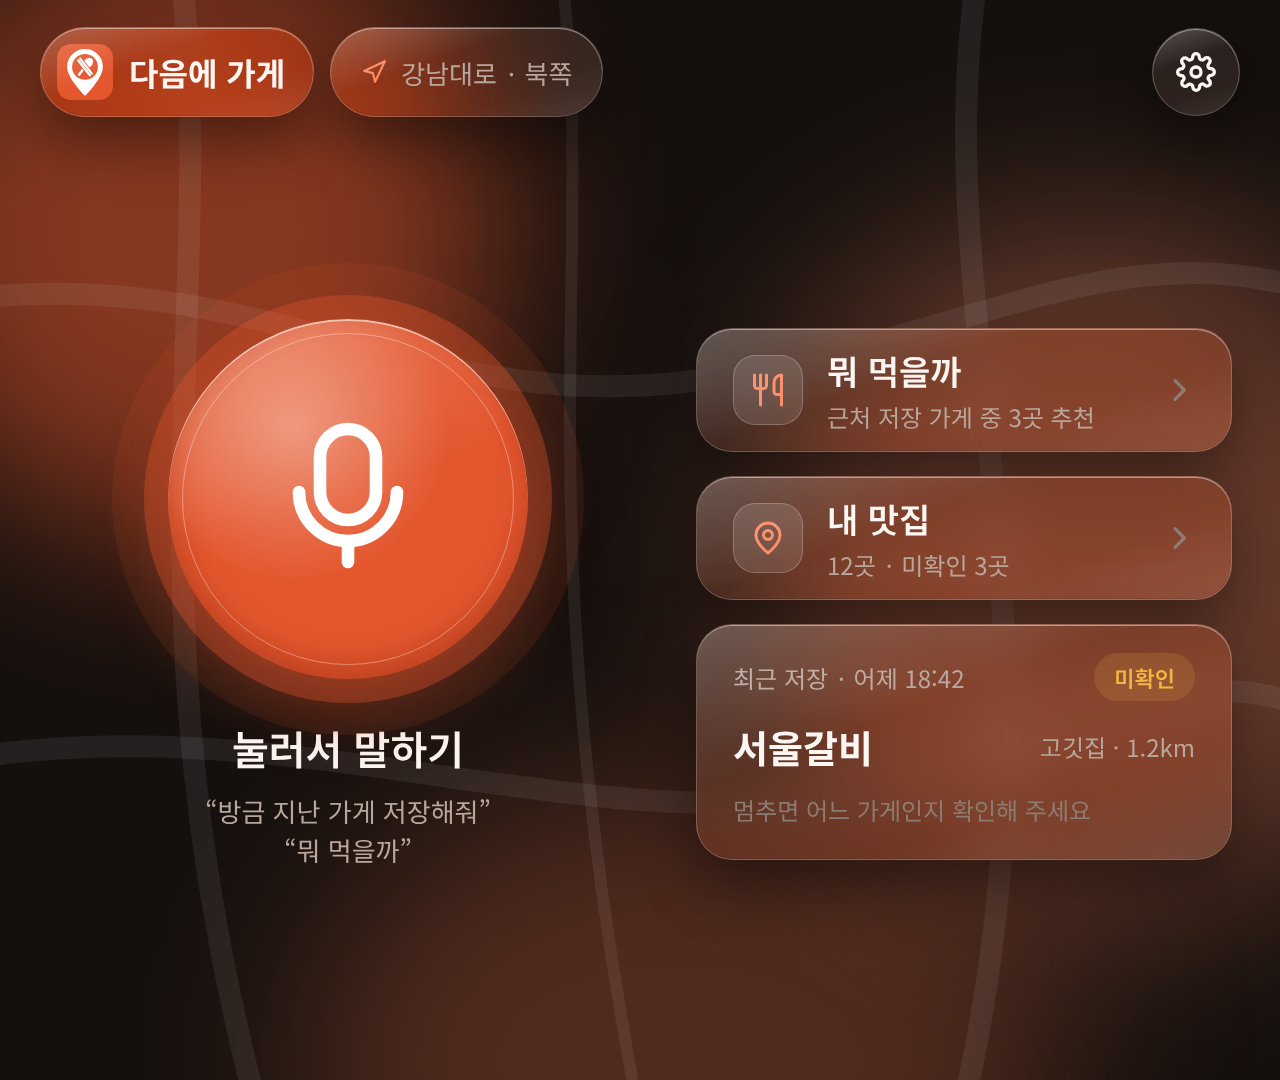
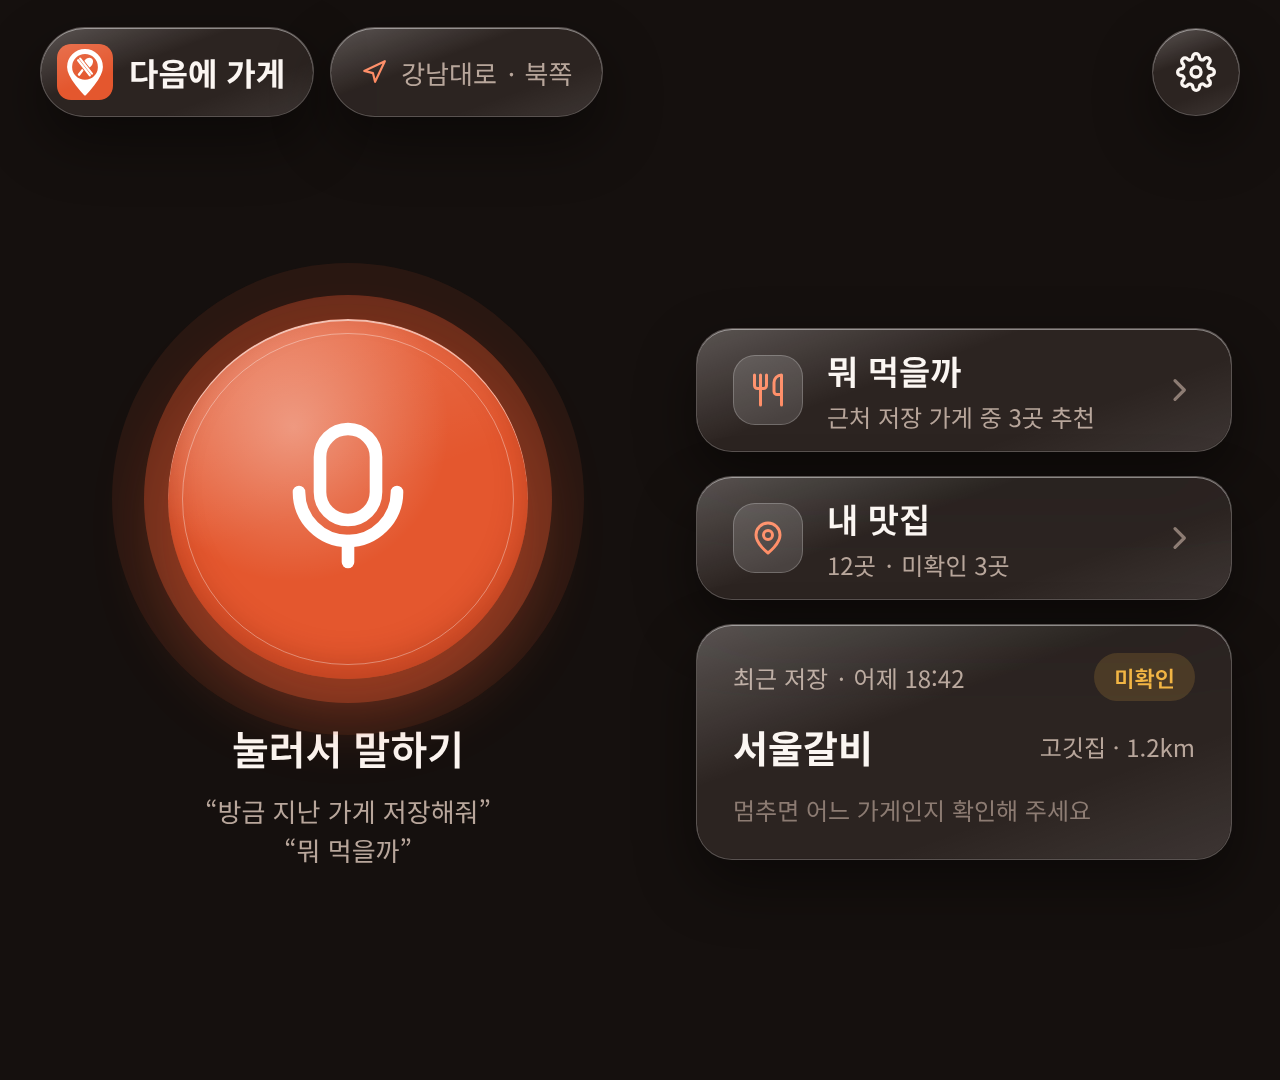
홈 글라스 시안: 배경 그림 제거, 단색 배경

diff --git a/docs/design/home_glass/S-01_홈_글라스_라이트.html b/docs/design/home_glass/S-01_홈_글라스_라이트.html
@@ -10,7 +10,7 @@ body{margin:0;background:#F6EFEA}
 .blob{position:absolute;border-radius:50%;filter:blur(90px)}
 .roads{position:absolute;inset:0}
 /* 유리 */
-.glass{position:relative;background:rgba(255,255,255,0.55);-webkit-backdrop-filter:blur(28px) saturate(170%);backdrop-filter:blur(28px) saturate(170%);border:1px solid rgba(255,255,255,0.9);box-shadow:inset 0 1px 0 rgba(255,255,255,0.95),inset 0 -1px 0 rgba(0,0,0,0.08),0 24px 60px rgba(120,60,40,0.18)}
+.glass{position:relative;background:rgba(255,255,255,0.78);-webkit-backdrop-filter:blur(28px) saturate(170%);backdrop-filter:blur(28px) saturate(170%);border:1px solid rgba(255,255,255,0.9);box-shadow:inset 0 1px 0 rgba(255,255,255,0.95),inset 0 -1px 0 rgba(0,0,0,0.08),0 24px 60px rgba(120,60,40,0.18)}
 .glass::before{content:"";position:absolute;inset:0;border-radius:inherit;pointer-events:none;background:linear-gradient(160deg,rgba(255,255,255,0.22) 0%,rgba(255,255,255,0) 38%,rgba(255,255,255,0) 70%,rgba(255,255,255,0.08) 100%)}
 .pill{border-radius:999px}
 .card{border-radius:36px}
@@ -30,7 +30,7 @@ main{position:absolute;left:0;right:0;top:140px;bottom:0;display:grid;grid-templ
 .hint p{margin:14px 0 0;font-size:26px;line-height:1.5;color:#6E5B53;text-align:center}
 .side{display:flex;flex-direction:column;justify-content:center;gap:24px;min-width:0}
 .row{height:124px;padding:0 36px;display:flex;align-items:center;gap:24px;color:#1F1512;text-decoration:none;box-sizing:border-box}
-.row .ib{width:68px;height:68px;border-radius:22px;background:rgba(255,255,255,0.7);display:flex;align-items:center;justify-content:center;flex:none;border:1px solid rgba(255,255,255,0.9)}
+.row .ib{width:68px;height:68px;border-radius:22px;background:rgba(255,255,255,0.95);display:flex;align-items:center;justify-content:center;flex:none;border:1px solid rgba(255,255,255,0.9)}
 .row .tx{flex:1;min-width:0;display:flex;flex-direction:column;gap:4px}
 .row .t{font-size:34px;font-weight:600}
 .row .s{font-size:24px;color:#6E5B53}
@@ -43,19 +43,6 @@ main{position:absolute;left:0;right:0;top:140px;bottom:0;display:grid;grid-templ
 .recent .note{font-size:24px;color:#9A867C}
 </style></head><body>
 <div class="root">
-  <div class="bgl" aria-hidden="true">
-    <div class="blob" style="left:-120px;top:-80px;width:620px;height:620px;background:rgba(228,87,46,0.35)"></div>
-    <div class="blob" style="right:-160px;top:220px;width:700px;height:700px;background:rgba(255,170,130,0.45)"></div>
-    <div class="blob" style="left:300px;bottom:-260px;width:760px;height:560px;background:rgba(255,220,200,0.9)"></div>
-    <svg class="roads" viewBox="0 0 1280 1080" fill="none" stroke="rgba(120,60,40,0.10)" stroke-width="22" stroke-linecap="round">
-      <path d="M-40 300 C 260 260, 420 420, 700 380 S 1120 220, 1340 300"/>
-      <path d="M180 -40 C 220 300, 120 600, 260 1120"/>
-      <path d="M-40 760 C 300 700, 620 860, 900 780 S 1200 660, 1340 720"/>
-      <path d="M980 -40 C 920 300, 1080 620, 960 1120"/>
-      <path d="M560 -40 C 600 260, 520 500, 640 1120" stroke-width="12"/>
-    </svg>
-  </div>
-
   <header class="top">
     <div class="glass pill brand"><svg xmlns="http://www.w3.org/2000/svg" width="56" height="56" viewBox="0 0 100 100"><rect width="100" height="100" rx="22" fill="#E4572E"/><path d="M50 90C50 90 20 60 20 41a30 30 0 1 1 60 0C80 60 50 90 50 90Z" fill="#FFFFFF" stroke="#FFFFFF" stroke-width="4" stroke-linejoin="round"/><circle cx="50" cy="41" r="23" fill="#E4572E"/><g transform="translate(50 41) scale(0.62)"><path transform="rotate(38)" d="M0 -31C8.5 -31 12.5 -22 12.5 -13C12.5 -6.5 9.5 -2 6 0C4.4 0.9 3.3 1.8 3.2 3.4L3.8 27.5A3.8 3.8 0 0 1 -3.8 27.5L-3.2 3.4C-3.3 1.8 -4.4 0.9 -6 0C-9.5 -2 -12.5 -6.5 -12.5 -13C-12.5 -22 -8.5 -31 0 -31Z" fill="#FFFFFF"/><g transform="rotate(-38)" fill="none" stroke-linecap="round"><path d="M-3.75 -27.5v55M3.75 -27.5v55" stroke="#E4572E" stroke-width="11.25"/><path d="M-3.75 -27.5v55M3.75 -27.5v55" stroke="#FFFFFF" stroke-width="6.25"/></g></g></svg>
 <span>다음에 가게</span></div>

diff --git a/docs/design/home_glass/S-01_홈_글라스.html b/docs/design/home_glass/S-01_홈_글라스.html
@@ -10,7 +10,7 @@ body{margin:0;background:#15100E}
 .blob{position:absolute;border-radius:50%;filter:blur(90px)}
 .roads{position:absolute;inset:0}
 /* 유리 */
-.glass{position:relative;background:rgba(255,255,255,0.08);-webkit-backdrop-filter:blur(28px) saturate(170%);backdrop-filter:blur(28px) saturate(170%);border:1px solid rgba(255,255,255,0.22);box-shadow:inset 0 1px 0 rgba(255,255,255,0.45),inset 0 -1px 0 rgba(0,0,0,0.08),0 24px 60px rgba(0,0,0,0.45)}
+.glass{position:relative;background:rgba(255,255,255,0.09);-webkit-backdrop-filter:blur(28px) saturate(170%);backdrop-filter:blur(28px) saturate(170%);border:1px solid rgba(255,255,255,0.22);box-shadow:inset 0 1px 0 rgba(255,255,255,0.45),inset 0 -1px 0 rgba(0,0,0,0.08),0 24px 60px rgba(0,0,0,0.45)}
 .glass::before{content:"";position:absolute;inset:0;border-radius:inherit;pointer-events:none;background:linear-gradient(160deg,rgba(255,255,255,0.22) 0%,rgba(255,255,255,0) 38%,rgba(255,255,255,0) 70%,rgba(255,255,255,0.08) 100%)}
 .pill{border-radius:999px}
 .card{border-radius:36px}
@@ -30,7 +30,7 @@ main{position:absolute;left:0;right:0;top:140px;bottom:0;display:grid;grid-templ
 .hint p{margin:14px 0 0;font-size:26px;line-height:1.5;color:#B8A69B;text-align:center}
 .side{display:flex;flex-direction:column;justify-content:center;gap:24px;min-width:0}
 .row{height:124px;padding:0 36px;display:flex;align-items:center;gap:24px;color:#FBF6F2;text-decoration:none;box-sizing:border-box}
-.row .ib{width:68px;height:68px;border-radius:22px;background:rgba(255,255,255,0.12);display:flex;align-items:center;justify-content:center;flex:none;border:1px solid rgba(255,255,255,0.22)}
+.row .ib{width:68px;height:68px;border-radius:22px;background:rgba(255,255,255,0.14);display:flex;align-items:center;justify-content:center;flex:none;border:1px solid rgba(255,255,255,0.22)}
 .row .tx{flex:1;min-width:0;display:flex;flex-direction:column;gap:4px}
 .row .t{font-size:34px;font-weight:600}
 .row .s{font-size:24px;color:#B8A69B}
@@ -43,19 +43,6 @@ main{position:absolute;left:0;right:0;top:140px;bottom:0;display:grid;grid-templ
 .recent .note{font-size:24px;color:#8C7B72}
 </style></head><body>
 <div class="root">
-  <div class="bgl" aria-hidden="true">
-    <div class="blob" style="left:-120px;top:-80px;width:620px;height:620px;background:rgba(228,87,46,0.55)"></div>
-    <div class="blob" style="right:-160px;top:220px;width:700px;height:700px;background:rgba(255,138,98,0.35)"></div>
-    <div class="blob" style="left:300px;bottom:-260px;width:760px;height:560px;background:rgba(120,60,40,0.6)"></div>
-    <svg class="roads" viewBox="0 0 1280 1080" fill="none" stroke="rgba(255,255,255,0.07)" stroke-width="22" stroke-linecap="round">
-      <path d="M-40 300 C 260 260, 420 420, 700 380 S 1120 220, 1340 300"/>
-      <path d="M180 -40 C 220 300, 120 600, 260 1120"/>
-      <path d="M-40 760 C 300 700, 620 860, 900 780 S 1200 660, 1340 720"/>
-      <path d="M980 -40 C 920 300, 1080 620, 960 1120"/>
-      <path d="M560 -40 C 600 260, 520 500, 640 1120" stroke-width="12"/>
-    </svg>
-  </div>
-
   <header class="top">
     <div class="glass pill brand"><svg xmlns="http://www.w3.org/2000/svg" width="56" height="56" viewBox="0 0 100 100"><rect width="100" height="100" rx="22" fill="#E4572E"/><path d="M50 90C50 90 20 60 20 41a30 30 0 1 1 60 0C80 60 50 90 50 90Z" fill="#FFFFFF" stroke="#FFFFFF" stroke-width="4" stroke-linejoin="round"/><circle cx="50" cy="41" r="23" fill="#E4572E"/><g transform="translate(50 41) scale(0.62)"><path transform="rotate(38)" d="M0 -31C8.5 -31 12.5 -22 12.5 -13C12.5 -6.5 9.5 -2 6 0C4.4 0.9 3.3 1.8 3.2 3.4L3.8 27.5A3.8 3.8 0 0 1 -3.8 27.5L-3.2 3.4C-3.3 1.8 -4.4 0.9 -6 0C-9.5 -2 -12.5 -6.5 -12.5 -13C-12.5 -22 -8.5 -31 0 -31Z" fill="#FFFFFF"/><g transform="rotate(-38)" fill="none" stroke-linecap="round"><path d="M-3.75 -27.5v55M3.75 -27.5v55" stroke="#E4572E" stroke-width="11.25"/><path d="M-3.75 -27.5v55M3.75 -27.5v55" stroke="#FFFFFF" stroke-width="6.25"/></g></g></svg>
 <span>다음에 가게</span></div>

diff --git a/docs/tools/gen_home_glass.py b/docs/tools/gen_home_glass.py
@@ -6,11 +6,11 @@ ICON = open('/home/claude/hyundai_pleos_app_competition/docs/design/icons/final/
 
 THEMES = {
  'dark': dict(name='다크', scheme='dark', bg='#15100E', text='#FBF6F2', muted='#B8A69B', faint='#8C7B72',
-   glass='rgba(255,255,255,0.08)', glass2='rgba(255,255,255,0.12)', edge='rgba(255,255,255,0.22)', spec='rgba(255,255,255,0.45)',
+   glass='rgba(255,255,255,0.09)', glass2='rgba(255,255,255,0.14)', edge='rgba(255,255,255,0.22)', spec='rgba(255,255,255,0.45)',
    shadow='0 24px 60px rgba(0,0,0,0.45)', accent='#E4572E', accent_text='#FF8A62', amber='#F2B544', amber_bg='rgba(242,181,68,0.16)',
    blob1='rgba(228,87,46,0.55)', blob2='rgba(255,138,98,0.35)', blob3='rgba(120,60,40,0.6)', road='rgba(255,255,255,0.07)', mic_glow='rgba(228,87,46,0.35)'),
  'light': dict(name='라이트', scheme='light', bg='#F6EFEA', text='#1F1512', muted='#6E5B53', faint='#9A867C',
-   glass='rgba(255,255,255,0.55)', glass2='rgba(255,255,255,0.7)', edge='rgba(255,255,255,0.9)', spec='rgba(255,255,255,0.95)',
+   glass='rgba(255,255,255,0.78)', glass2='rgba(255,255,255,0.95)', edge='rgba(255,255,255,0.9)', spec='rgba(255,255,255,0.95)',
    shadow='0 24px 60px rgba(120,60,40,0.18)', accent='#E4572E', accent_text='#B83A18', amber='#8A5A00', amber_bg='rgba(242,181,68,0.28)',
    blob1='rgba(228,87,46,0.35)', blob2='rgba(255,170,130,0.45)', blob3='rgba(255,220,200,0.9)', road='rgba(120,60,40,0.10)', mic_glow='rgba(228,87,46,0.28)'),
 }
@@ -71,19 +71,6 @@ main{{position:absolute;left:0;right:0;top:140px;bottom:0;display:grid;grid-temp
 .recent .note{{font-size:24px;color:{T['faint']}}}
 </style></head><body>
 <div class="root">
-  <div class="bgl" aria-hidden="true">
-    <div class="blob" style="left:-120px;top:-80px;width:620px;height:620px;background:{T['blob1']}"></div>
-    <div class="blob" style="right:-160px;top:220px;width:700px;height:700px;background:{T['blob2']}"></div>
-    <div class="blob" style="left:300px;bottom:-260px;width:760px;height:560px;background:{T['blob3']}"></div>
-    <svg class="roads" viewBox="0 0 1280 1080" fill="none" stroke="{T['road']}" stroke-width="22" stroke-linecap="round">
-      <path d="M-40 300 C 260 260, 420 420, 700 380 S 1120 220, 1340 300"/>
-      <path d="M180 -40 C 220 300, 120 600, 260 1120"/>
-      <path d="M-40 760 C 300 700, 620 860, 900 780 S 1200 660, 1340 720"/>
-      <path d="M980 -40 C 920 300, 1080 620, 960 1120"/>
-      <path d="M560 -40 C 600 260, 520 500, 640 1120" stroke-width="12"/>
-    </svg>
-  </div>
-
   <header class="top">
     <div class="glass pill brand">{ICON}<span>다음에 가게</span></div>
     <div class="glass pill loc">{ic(NAV,26,T['accent_text'])}<span>강남대로 · 북쪽</span></div>

diff --git a/docs/design/home_glass/색상.md b/docs/design/home_glass/색상.md
@@ -6,7 +6,7 @@
 | --- | --- | --- | --- |
 | 브랜드 주황 | #E4572E | #E4572E | 앱 아이콘 배경과 같은 색. 말하기 버튼 채움, 핀, 1순위 동작에만 |
 | 주황 글자·아이콘 | #FF8A62 | #B83A18 | 유리 위 아이콘·링크 글자. 다크 7.6:1 · 라이트 5.7:1 |
-| 배경 (콘텐츠 층) | #15100E | #F6EFEA | 따뜻한 검정 / 따뜻한 흰색. 그 위에 흐린 주황 블롭과 길 선 |
+| 배경 (콘텐츠 층) | #15100E | #F6EFEA | 따뜻한 검정 / 따뜻한 흰색. 단색(배경 그림 없음) |
 | 유리 (컨트롤 층) | rgba(255,255,255,0.08) | rgba(255,255,255,0.55) | blur 28 · saturate 170% · 테두리 흰 22%/90% · 위쪽 흰 선(스펙큘러) |
 | 글자 | #FBF6F2 | #1F1512 | 17.6:1 / 17.9:1 |
 | 보조 글자 | #B8A69B | #6E5B53 | 7.5:1 / 6.4:1 |
@@ -17,7 +17,7 @@
 
 ## 유리(Liquid Glass) 규칙
 
-- 컨트롤 층(상단 알약 바·버튼·카드)만 유리. 콘텐츠 층(배경·지도)은 유리 금지 (Apple HIG 머티리얼).
+- 컨트롤 층(상단 알약 바·버튼·카드)만 유리. 배경은 단색(재원 지시 2026-11-09, 배경 그림 없음). 지도 화면에서는 지도가 콘텐츠 층.
 - 유리 = 흰색 8%(다크)/55%(라이트) + backdrop blur 28px saturate 170% + 테두리 1px 흰 22%/90% + 위쪽 안쪽 흰 선 1px + 왼쪽 위에서 오는 연한 하이라이트 그라데이션.
 - 색을 입힌 유리는 1순위 동작(말하기 버튼) 1개만. 나머지 유리는 색 없이 뒤 배경색을 비침 (HIG 색: 여러 컨트롤 배경에 색 금지).
 - 모서리: 알약(999) 또는 36dp. 그림자 0 24 60 (다크 검정 45%, 라이트 갈색 18%).
